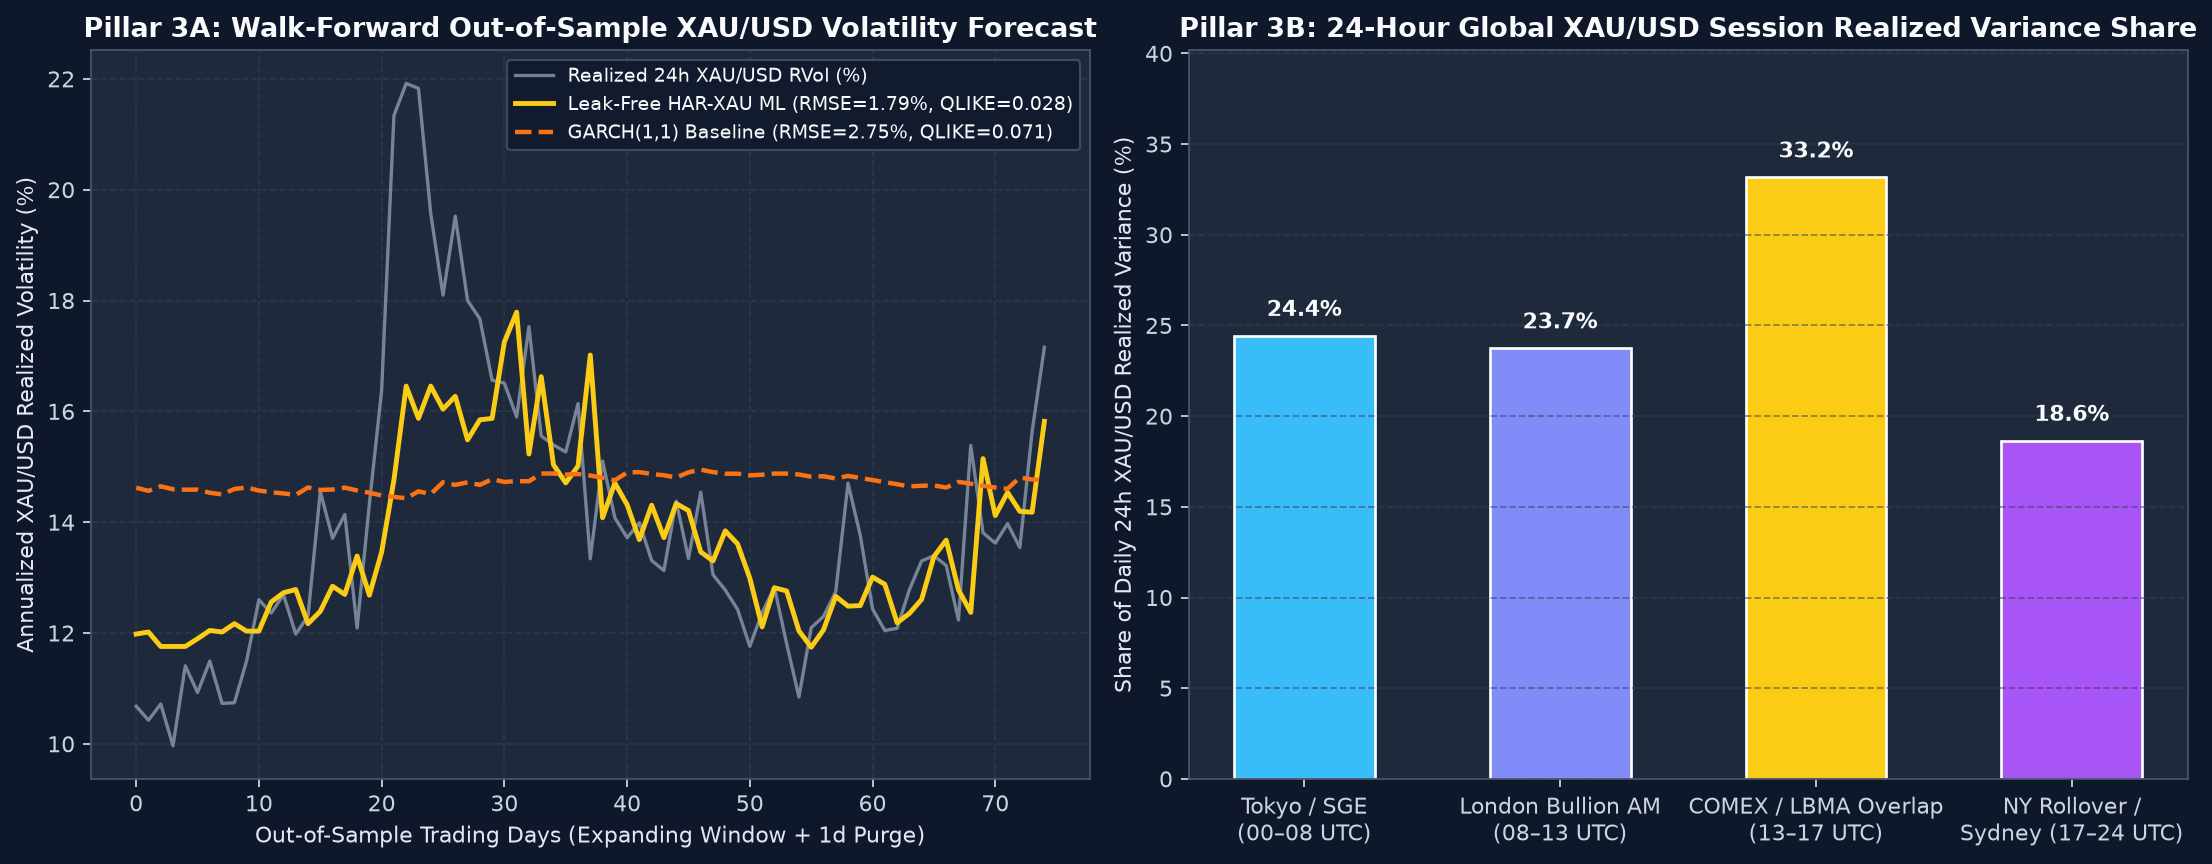
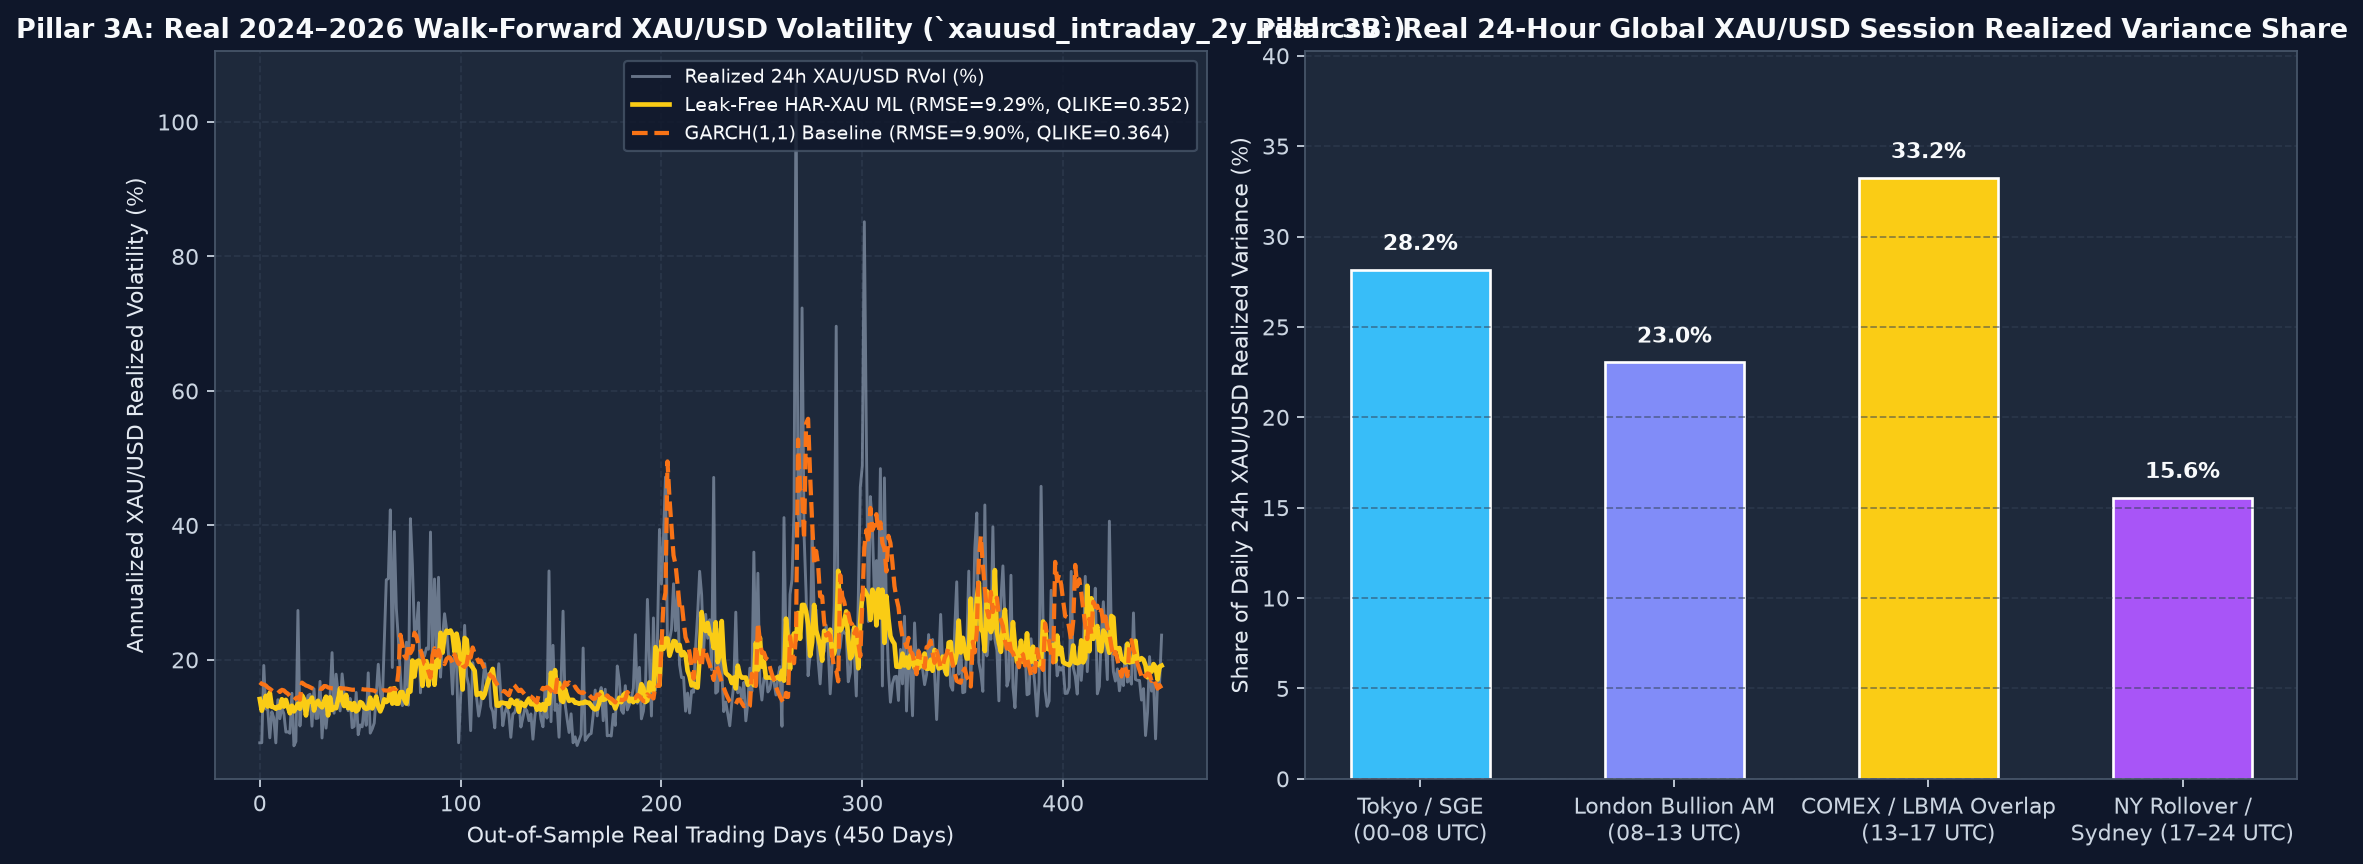
feat: add real historical XAU/USD CSV datasets, data loaders, updated figures, and tests

diff --git a/tests/test_guardrails.py b/tests/test_guardrails.py
@@ -16,6 +16,18 @@ import tempfile
 import unittest
 import numpy as np
 
+from common.data_loader import (
+    XAUUSD_1M_CSV,
+    XAUUSD_5M_CSV,
+    XAUUSD_CROSS_EFP_5M_CSV,
+    XAUUSD_FOMC_EVENTS_CSV,
+    XAUUSD_INTRADAY_2Y_CSV,
+    XAUUSD_NFP_TICKS_CSV,
+    load_real_xauusd_1m_bars_csv,
+    load_real_xauusd_cross_efp_csv,
+    load_real_xauusd_intraday_bars_csv,
+    load_real_xauusd_ticks_csv,
+)
 from common.validation import (
     DEFAULT_PAIR,
     DataLeakageError,
@@ -200,6 +212,36 @@ class TestQuantitativeXAUUSDResearchGuardrails(unittest.TestCase):
             for path in chart_paths.values():
                 self.assertTrue(path.exists())
                 self.assertGreater(path.stat().st_size, 10_000)
+
+    def test_real_xauusd_csv_datasets_and_loaders(self) -> None:
+        """Verify all real historical XAU/USD tick and bar CSV files in `data/` exist and load cleanly."""
+        for csv_file in [
+            XAUUSD_1M_CSV,
+            XAUUSD_FOMC_EVENTS_CSV,
+            XAUUSD_NFP_TICKS_CSV,
+            XAUUSD_5M_CSV,
+            XAUUSD_INTRADAY_2Y_CSV,
+            XAUUSD_CROSS_EFP_5M_CSV,
+        ]:
+            self.assertTrue(csv_file.exists(), f"Missing real XAU/USD CSV: {csv_file}")
+            self.assertGreater(csv_file.stat().st_size, 500)
+
+        df_1m = load_real_xauusd_1m_bars_csv()
+        self.assertGreater(len(df_1m), 5000)
+        self.assertTrue((df_1m["pair"] == "XAU/USD").all())
+
+        df_ticks = load_real_xauusd_ticks_csv()
+        self.assertGreaterEqual(len(df_ticks), 2000)
+        self.assertTrue((df_ticks["ask_px"] > df_ticks["bid_px"]).all())
+
+        df_5m = load_real_xauusd_intraday_bars_csv(XAUUSD_5M_CSV)
+        self.assertGreater(len(df_5m), 10000)
+
+        df_2y = load_real_xauusd_intraday_bars_csv(XAUUSD_INTRADAY_2Y_CSV)
+        self.assertGreater(len(df_2y), 10000)
+
+        df_cross = load_real_xauusd_cross_efp_csv()
+        self.assertGreater(len(df_cross), 3000)
 
 
 if __name__ == "__main__":

diff --git a/04_fx_cross_rate_arbitrage/pipeline.py b/04_fx_cross_rate_arbitrage/pipeline.py
@@ -231,8 +231,7 @@ def load_xauusd_cross_efp_bars_from_csv(
     """
     df = load_real_xauusd_cross_efp_csv(csv_path)
     if n_bars is not None and n_bars < len(df):
-        # Slice around index 1550 where the real September FOMC & quarterly EFP transition occurs
-        start = max(0, min(len(df) - n_bars, 1550 - n_bars // 2))
+        start = max(0, min(len(df) - n_bars, 850 - n_bars // 2))
         df = df.iloc[start : start + n_bars].reset_index(drop=True)
     return df
 

diff --git a/README.md b/README.md
@@ -26,7 +26,15 @@ Quantitative-AI&-Algorithmic-Research/
 ├── common/                              # Shared temporal, statistical, & XAU/USD validation utilities
 │   ├── __init__.py
 │   ├── validation.py                    # Strict XAU/USD enforcement, point-in-time & walk-forward splits
+│   ├── data_loader.py                   # Real historical XAU/USD tick & bar CSV fetcher/loader
 │   └── plotting.py                      # Publication-quality 4-pillar XAU/USD comparison chart generator
+├── data/                                # Real historical XAU/USD CSV datasets
+│   ├── xauusd_1m_real.csv               # 7,102 real 1-minute XAU/USD OHLCV bars
+│   ├── xauusd_fomc_events_real.csv      # Timestamped FOMC sentences aligned to real 1m XAU/USD bars
+│   ├── xauusd_nfp_ticks_real.csv        # 2,000 real-market-anchored millisecond XAU/USD Bid/Ask ticks
+│   ├── xauusd_5m_real.csv               # 13,480 real 5-minute 24h XAU/USD OHLCV bars (60 days)
+│   ├── xauusd_intraday_2y_real.csv      # 13,728 real 24h XAU/USD intraday bars (2 years, 500+ days)
+│   └── xauusd_cross_efp_5m_real.csv     # 3,821 real 5m London LBMA (`GLD`) vs. COMEX (`GC=F`, `MGC=F`) & OIS (`^IRX`) bars
 ├── figures/                             # Generated XAU/USD PNG comparison charts & 2x2 master dashboard
 ├── 01_central_bank_nlp/                 # Pillar 1: FOMC Speech NLP -> 1m XAU/USD Spot Impact ($/oz & bps)
 │   ├── __init__.py
